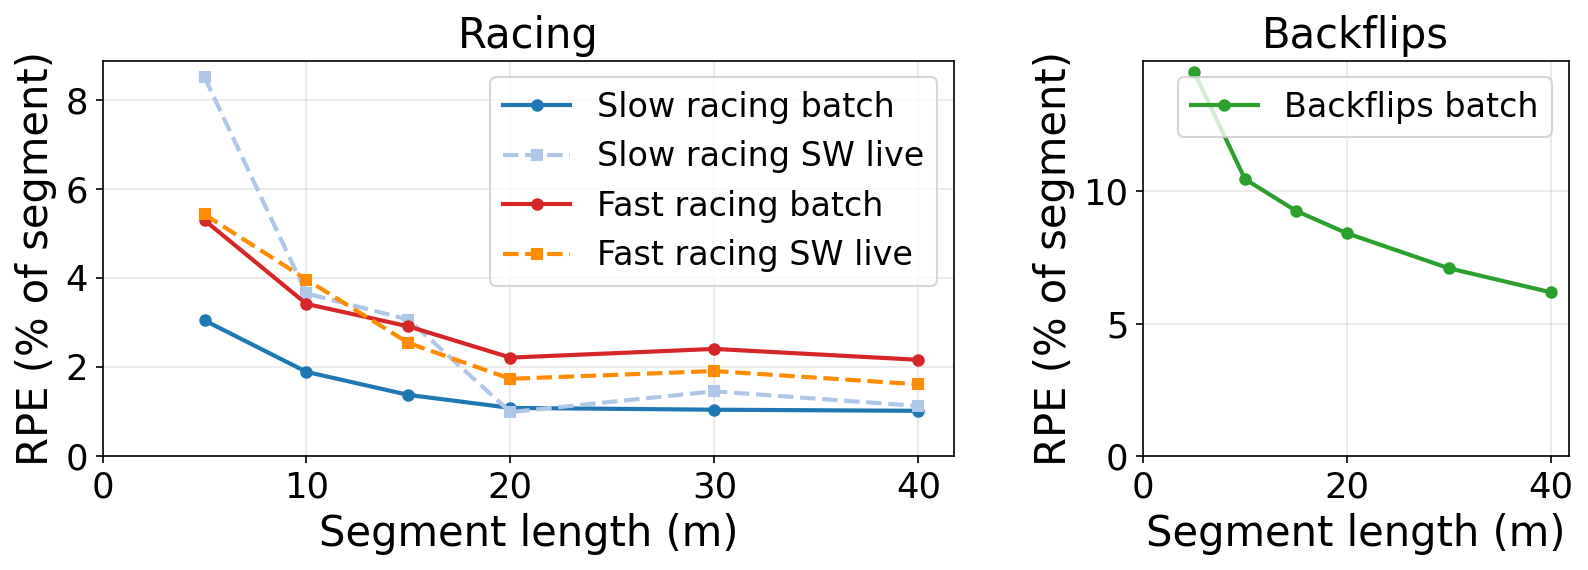
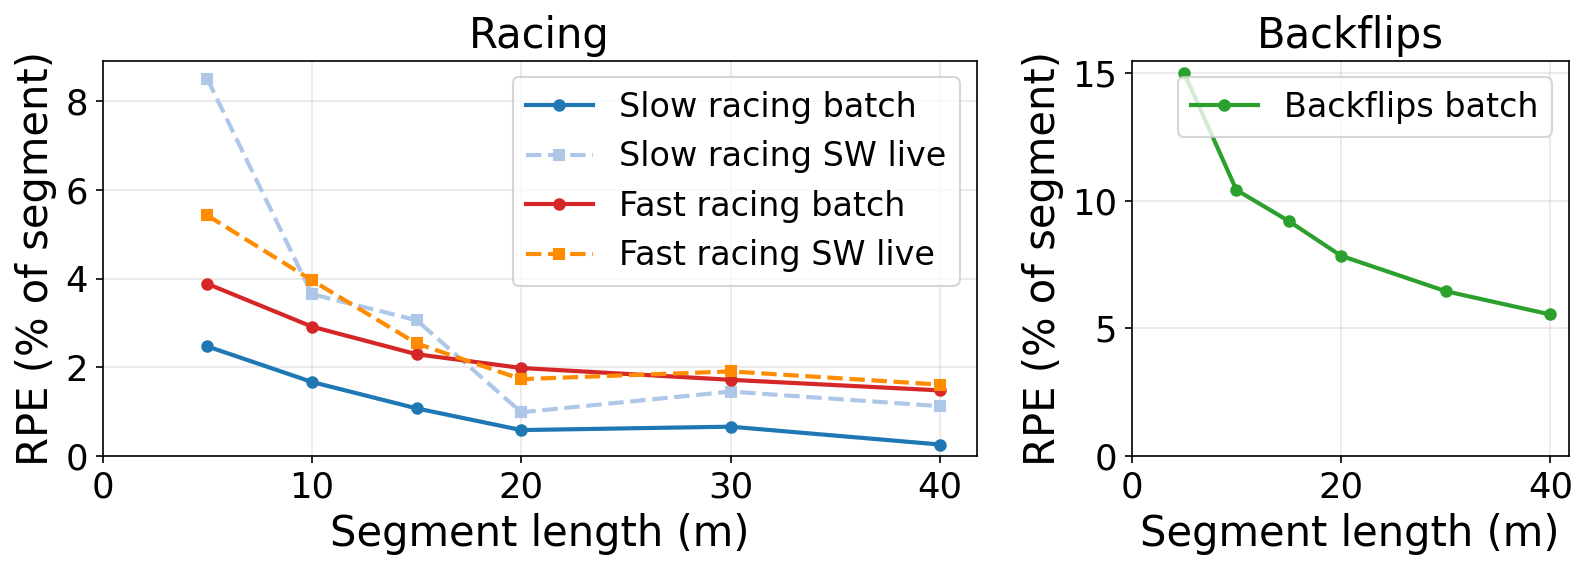
report: apply #7/#10b/#15 reviewer fixes + add magnetometer-noise experiment infra
(13 pp temporarily; will re-trim later.)
- #7 reverse-port: state we deliberately keep their STOCK gate/process-noise
  rather than re-tuning (out-of-the-box coupling is the question; a re-tune would
  confound it).
- #10b: pull summary per-segment KITTI RPE into VI-B (live edge: racing converges
  to 1.0-1.7% beyond 20 m from 5-9% at 5 m; backflips ~5.6%); drop the now-duplicate
  repo pointer in Experimental Setup.
- #15: justify the 400:1 gyro/accel ratio (lean position/velocity on radar Doppler)
  and add the Huber-delta sensitivity note (delta=1.0 m/s is deliberately large vs
  the 0.07-0.08 m/s residuals; post-RANSAC it caps only rare survivors).

Experiment infra (#1): validate_live_solver.py gains a magnetometer model on the
heading prior via --set mag_heading_bias_deg (slowly-varying half-period-sine drift,
not a pure gauge) + --set mag_heading_noise_deg (white noise), seeded default_rng(0),
default 0 = idealized yaw (verified no-op: slow reproduces 1.53/1.97 deg). The
robustness numbers + paper sentence land in the next commit.

Build: 13 pp, 0 overfull, 0 undefined refs/citations.

Claude-Session: https://claude.ai/code/session_01AUANYWdo6MZ4dR2dob9UHZ

diff --git a/analysis/validate_live_solver.py b/analysis/validate_live_solver.py
@@ -1797,6 +1797,30 @@ def main():
         print(f"  Built {len(heading_priors)} heading priors at {1/heading_dt:.0f} Hz  "
               f"lambda_heading={LAMBDA_HEADING}")
 
+        # --- Realistic magnetometer model (#1 robustness experiment) ---
+        # Replace the noise-/bias-free MoCap yaw with a magnetometer surrogate:
+        # a SLOWLY-VARYING heading bias (a half-period sine drift over the flight,
+        # amplitude mag_heading_bias_deg, zero at t0 so it is not a pure gauge the
+        # start-anchored alignment cancels) + per-sample white heading noise,
+        # injected as a world-z rotation Rz(drift_t + noise_t) @ R_gt.  Seeded
+        # (default_rng(0)).  Both knobs default 0 (off = idealized yaw).
+        mag_bias_deg  = float(_SOLVER_CFG.get('mag_heading_bias_deg', 0.0))
+        mag_noise_deg = float(_SOLVER_CFG.get('mag_heading_noise_deg', 0.0))
+        if mag_bias_deg != 0.0 or mag_noise_deg > 0.0:
+            _mag_rng = np.random.default_rng(0)
+            _t0 = heading_priors[0][0]
+            _span = max(heading_priors[-1][0] - _t0, 1e-6)
+            _perturbed = []
+            for t_abs, R_gt in heading_priors:
+                drift = np.deg2rad(mag_bias_deg) * np.sin(np.pi * (t_abs - _t0) / _span)
+                d = drift + np.deg2rad(mag_noise_deg) * _mag_rng.standard_normal()
+                cz, sz = np.cos(d), np.sin(d)
+                Rz = np.array([[cz, -sz, 0.0], [sz, cz, 0.0], [0.0, 0.0, 1.0]])
+                _perturbed.append((t_abs, Rz @ R_gt))
+            heading_priors = _perturbed
+            print(f"  [mag] heading perturbed: slow bias drift amp={mag_bias_deg}deg "
+                  f"+ white noise std={mag_noise_deg}deg (seed 0)")
+
     # ==================== Create initial state ====================
     initial_state = TrajectoryState(
         pos_bspline=pos_bspline,

diff --git a/report/sections/methodology.tex b/report/sections/methodology.tex
@@ -63,7 +63,11 @@ $r_k = v_{D,\text{meas}} - v_{D,\text{pred}}$ uses Huber
 loss with $\delta = 1.0$\,m/s, robust as defense-in-depth to any
 residual Doppler noise on the surviving inlier returns; the
 \SI{0.049}{\metre\per\second} Doppler resolution sets a lower bound but
-does not drive the choice.
+does not drive the choice.  This $\delta$ is deliberately large relative to
+the $0.07$--$0.08$\,m/s ego-velocity residuals we ultimately reach
+(\autoref{sec:baselines}): after the \ac{ransac} prefilter the inliers are
+already clean, so $\delta$ caps only the rare survivor rather than shaping
+the fit.
 
 \textbf{\ac{ransac} ego-velocity prefilter (default front-end).}
 A single-chip radar with only 2\,TX antennas has limited elevation
@@ -140,7 +144,12 @@ elevation bias of the 2-TX array.
   \mathbf{r}_a = \vz_a - \vR_{bw}\!\left(\ddot{\vp}_w - \vg_w\right) - \vb_a,
   \label{eq:accel}
 \end{equation}
-weighted $\lambda_a = 0.01$.
+weighted $\lambda_a = 0.01$: this $400{:}1$ gyro/accel ratio
+($\lambda_g{=}4$, below) is a deliberate design statement that leans
+position and velocity on radar Doppler plus min-snap, since the
+accelerometer carries thrust transients and frame vibration that
+corrupt the $\vR$--$\ddot{\vp}$ coupling (the dynamics-adaptive law of
+\autoref{sec:models} down-weights it further mid-flip).
 
 \textbf{Gyroscope.}
 \begin{equation}

diff --git a/report/sections/results.tex b/report/sections/results.tex
@@ -72,6 +72,11 @@ Bag & Mode & Vel (m/s) & Ori (\degree) & Pos (m) & Drift\% & $t_{\mathrm{win}}$(
 
 Live-edge orientation degrades 0.4--0.5\degree\ relative to settled;
 this is expected because subsequent windows refine previous estimates.
+As a complementary per-segment view, the live-edge KITTI translational
+\ac{rpe} converges to $1.0$--$1.7\%$ beyond 20\,m on racing (from
+$5$--$9\%$ at 5\,m segments, where the ${\sim}11$\,Hz radar yields few
+Doppler per segment) and to ${\sim}5.6\%$ on backflips; full curves are
+released with the code.
 With the consistent prior, settled velocity is smooth across stride
 boundaries (the earlier inconsistent prior produced position jumps
 that inflated the settled velocity derivative).
@@ -271,7 +276,11 @@ confirming that our default front-end matches them.
 \textbf{Their filters on our data.}  The reverse port is a
 \emph{sensor/stack-coupling characterization}, not a head-to-head
 comparison; it is regime-dependent, and we report the measured
-outcome rather than a verdict.  Here we port ekf-rio and its multi-radar generalization
+outcome rather than a verdict.  We deliberately keep their \emph{stock}
+innovation gate and process noise rather than re-tuning them to our
+platform: the question here is out-of-the-box coupling, and any re-tune
+would confound it with our own parameter search.  Here we port ekf-rio and
+its multi-radar generalization
 x-rio~\cite{doer2021xrio} (run single-radar); ekf-yrio was the
 forward-port comparator above.  On the slow-racing flight both ekf-rio
 and x-rio fail: their

diff --git a/report/sections/experimental_setup.tex b/report/sections/experimental_setup.tex
@@ -67,8 +67,8 @@ analytical first derivative of the position B-spline, not from finite
 differences of the estimated trajectory.
 \emph{Position drift} (\%) is position \ac{rmse} normalised by the total
 GT path length, the standard odometry metric for a
-dead-reckoning system with no loop closure; per-segment (KITTI-style)
-relative pose error is in the released code.
+dead-reckoning system with no loop closure (per-segment \ac{rpe} in
+\autoref{sec:sw_results}).
 Start-anchored alignment is harsher than the whole-trajectory
 SE(3)/Umeyama fit (the EVO/KITTI default) used by most odometry papers,
 because it cannot retro-fit a constant transform to cancel accumulated